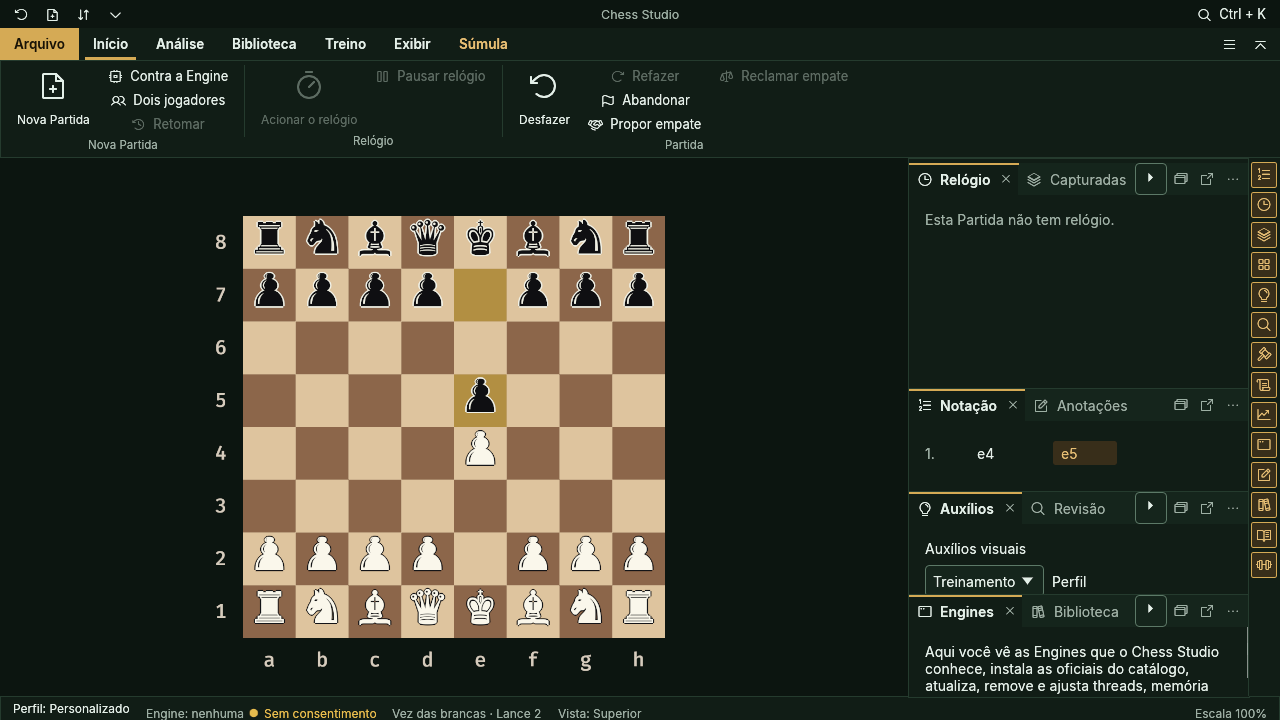
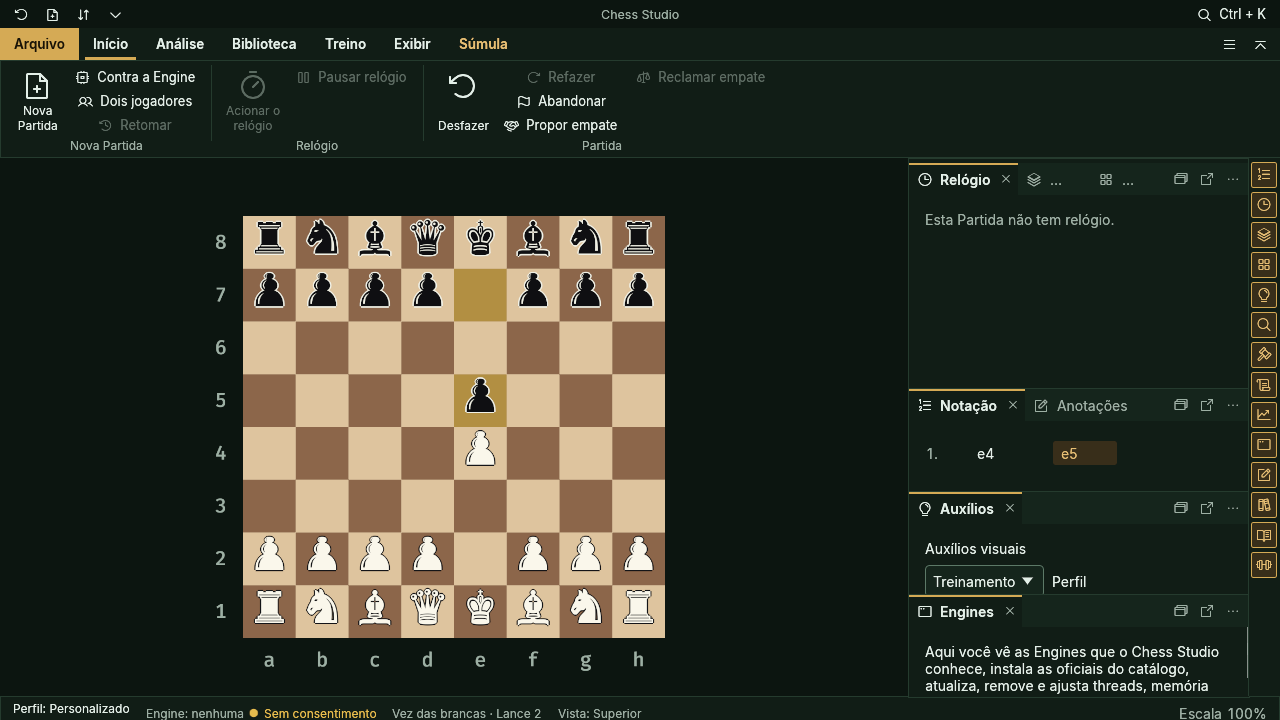
fix(ui): fundo do 3D profissional e coordenadas do 2D técnico seguem o Tema (#206)

diff --git a/crates/chess-studio/src/presentation.rs b/crates/chess-studio/src/presentation.rs
@@ -320,6 +320,9 @@ fn apply_scene_background(
     appearance: Option<Res<crate::ui_theme::Appearance>>,
     windows: Query<&Window, With<bevy::window::PrimaryWindow>>,
     mut clear: ResMut<ClearColor>,
+    floor: Query<&MeshMaterial3d<StandardMaterial>, With<crate::board::StudioFloor>>,
+    mut materials: Option<ResMut<Assets<StandardMaterial>>>,
+    mut labels: Query<&mut TextColor, With<crate::coordinates::Labels2d>>,
 ) {
     let mode = appearance.map_or_else(Default::default, |a| a.theme);
     let system_dark = windows.single().ok().and_then(|w| match w.window_theme? {
@@ -330,6 +333,68 @@ fn apply_scene_background(
     if clear.0 != want {
         clear.0 = want;
     }
+    // As coordenadas do 2D técnico ficam sobre o fundo: `ink-muted` do Tema.
+    let label = crate::ui_theme::scene_label_color(mode, system_dark);
+    for mut color in &mut labels {
+        if color.0 != label {
+            color.0 = label;
+        }
+    }
+    // O piso do 3D profissional cobre o fundo: sem luz, na cor do token, para o que aparece
+    // na tela ficar no `surface-0` (o mapeamento de tons da câmera 3D é compensado).
+    let floor_color = compensate_tonemapping(want);
+    if let Some(materials) = materials.as_deref_mut() {
+        for handle in &floor {
+            if materials
+                .get(&handle.0)
+                .is_some_and(|m| m.base_color != floor_color)
+                && let Some(mut m) = materials.get_mut(&handle.0)
+            {
+                m.base_color = floor_color;
+            }
+        }
+    }
+}
+
+/// Resposta medida do mapeamento de tons da câmera 3D (`TonyMcMapface`, sem HDR) a um piso sem
+/// luz de cinza neutro: (entrada sRGB, saída sRGB) em capturas de 1280x720. Os claros saem
+/// comprimidos: a entrada 1,0 aparece como 0,77 (197/255).
+const TONEMAP_RESPONSE: [(f32, f32); 12] = [
+    (0.0, 0.004),
+    (0.1, 0.110),
+    (0.2, 0.212),
+    (0.3, 0.310),
+    (0.4, 0.400),
+    (0.5, 0.482),
+    (0.6, 0.557),
+    (0.7, 0.624),
+    (0.8, 0.682),
+    (0.9, 0.729),
+    (0.95, 0.753),
+    (1.0, 0.773),
+];
+
+/// Entrada sRGB que o mapeamento de tons devolve como `want` (limitada ao que ele alcança).
+fn invert_tonemapping(want: f32) -> f32 {
+    for w in TONEMAP_RESPONSE.windows(2) {
+        let ((i0, o0), (i1, o1)) = (w[0], w[1]);
+        if want <= o1 {
+            let t = ((want - o0) / (o1 - o0)).clamp(0.0, 1.0);
+            return i0 + (i1 - i0) * t;
+        }
+    }
+    1.0
+}
+
+/// Cor a entregar à câmera 3D para que, depois do mapeamento de tons, apareça `target`. Os
+/// claros acima de ~0,77 não se alcançam: ficam no máximo da câmera.
+fn compensate_tonemapping(target: Color) -> Color {
+    let c = target.to_srgba();
+    Color::srgb(
+        invert_tonemapping(c.red),
+        invert_tonemapping(c.green),
+        invert_tonemapping(c.blue),
+    )
 }
 
 #[allow(clippy::type_complexity)]
@@ -470,6 +535,20 @@ fn apply_quality(
 #[cfg(test)]
 mod tests {
     use super::*;
+
+    /// A compensação inverte a resposta medida do mapeamento de tons: escuros quase idênticos,
+    /// claros no máximo que a câmera alcança, sempre monótona.
+    #[test]
+    fn tonemapping_compensation_is_monotonic_and_clamped() {
+        let mut last = -1.0;
+        for i in 0..=100 {
+            let v = invert_tonemapping(i as f32 / 100.0);
+            assert!((0.0..=1.0).contains(&v) && v >= last);
+            last = v;
+        }
+        assert!((invert_tonemapping(0.110) - 0.1).abs() < 1e-3);
+        assert_eq!(invert_tonemapping(0.92), 1.0);
+    }
     use crate::camera::MainCamera;
     use bevy_egui::EguiGlobalSettings;
     use bevy_egui::input::EguiWantsInput;

diff --git a/crates/chess-studio/src/ui_theme/mod.rs b/crates/chess-studio/src/ui_theme/mod.rs
@@ -51,6 +51,12 @@ pub fn scene_background(mode: ThemeMode, system_dark: Option<bool>) -> Color {
     Color::srgba_u8(c.r(), c.g(), c.b(), c.a())
 }
 
+/// Cor das coordenadas do 2D técnico (ficam sobre o fundo da cena): `ink-muted` do Tema efetivo.
+pub fn scene_label_color(mode: ThemeMode, system_dark: Option<bool>) -> Color {
+    let c = Palette::of_theme(resolve_theme(mode, system_dark)).ink_muted;
+    Color::srgba_u8(c.r(), c.g(), c.b(), c.a())
+}
+
 /// Tema do sistema operacional, quando o Bevy sabe qual é.
 fn system_dark(window: Option<&Window>) -> Option<bool> {
     match window?.window_theme? {
@@ -145,6 +151,18 @@ mod tests {
                 rgb(scene_background(ThemeMode::Fixed(id), None)),
                 [p.r(), p.g(), p.b()],
                 "{key}"
+            );
+        }
+    }
+
+    #[test]
+    fn scene_labels_use_the_effective_themes_ink_muted() {
+        for key in ["feltro", "torneio"] {
+            let id = ThemeId::from_key(key).expect("tema");
+            let p = Palette::of_theme(id).ink_muted;
+            assert_eq!(
+                rgb(scene_label_color(ThemeMode::Fixed(id), None)),
+                [p.r(), p.g(), p.b()]
             );
         }
     }

diff --git a/crates/chess-studio/src/board.rs b/crates/chess-studio/src/board.rs
@@ -238,19 +238,25 @@ fn spawn_table(
     ));
 
     // Estúdio: piso neutro fosco que só recebe a sombra do tabuleiro.
+    // A cor (e o `unlit`) vêm do Tema: `presentation::apply_scene_background` (issue #206).
     let floor_mat = materials.add(StandardMaterial {
         base_color: Color::srgb(0.13, 0.14, 0.16),
-        perceptual_roughness: 0.95,
+        unlit: true,
         ..default()
     });
     commands.spawn((
         Name::new("studio_floor"),
+        StudioFloor,
         Mesh3d(meshes.add(Plane3d::default().mesh().size(120.0, 120.0))),
         MeshMaterial3d(floor_mat),
         Transform::from_xyz(0.0, TABLE_TOP - 0.7, 0.0),
         VisibleIn::PROFESSIONAL,
     ));
 }
+
+/// O piso do estúdio da Apresentação 3D profissional (o fundo visível atrás do tabuleiro).
+#[derive(Component)]
+pub struct StudioFloor;
 
 fn spawn_lights(mut commands: Commands) {
     for role in [LightRole::Key, LightRole::Fill, LightRole::Rim] {

diff --git a/crates/chess-studio/src/board2d.rs b/crates/chess-studio/src/board2d.rs
@@ -28,7 +28,6 @@ pub fn square_pos(sq: Square) -> Vec2 {
 // Tons de madeira neutros, coerentes com o tabuleiro 3D (bordo claro e nogueira escura).
 pub(crate) const LIGHT: Color = Color::srgb(0.87, 0.77, 0.62);
 pub(crate) const DARK: Color = Color::srgb(0.55, 0.40, 0.29);
-const LABEL: Color = Color::srgb(0.84, 0.80, 0.74);
 
 #[derive(Component)]
 struct HoverSprite;
@@ -154,7 +153,8 @@ fn spawn_board(mut commands: Commands) {
                     font_size: FontSize::Px(38.0),
                     ..default()
                 },
-                TextColor(LABEL),
+                // A cor vem do Tema: `presentation::apply_scene_background`.
+                TextColor(Color::WHITE),
                 Transform::from_xyz(pos.x, pos.y, 1.0),
                 crate::coordinates::Labels2d,
             ));
